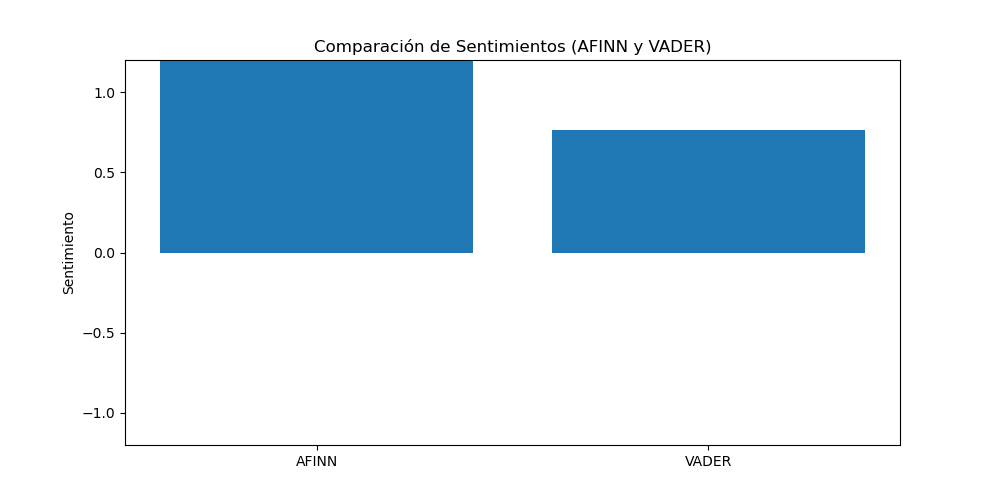
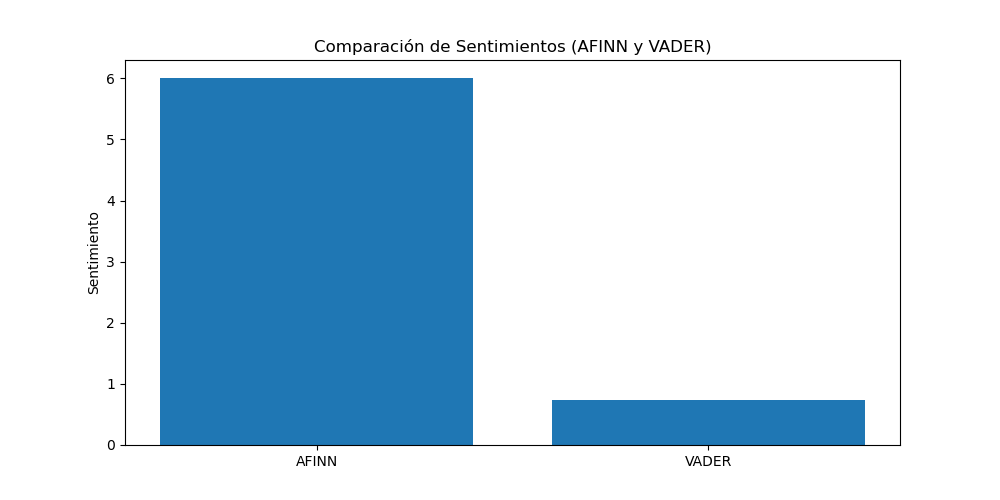
a

diff --git a/Sent Analysis Tlalpan.py b/Sent Analysis Tlalpan.py
@@ -15,10 +15,7 @@ def analyze_text(text):
     Realiza un análisis de sentimiento utilizando AFINN y VADER, y genera una nube de palabras.
 
     AFINN: Es un léxico de palabras con puntuaciones numéricas que reflejan su connotación positiva o negativa.
-    Los puntajes AFINN suelen variar entre -5 (muy negativo) y 5 (muy positivo).
-
-    VADER: Es un analizador de sentimientos específico para el lenguaje de las redes sociales. 
-    Los puntajes VADER van de -1 (muy negativo) a 1 (muy positivo). El puntaje 'compound' que se utiliza aquí representa el sentimiento general del texto.
+    VADER: Es un analizador de sentimientos específico para el lenguaje de las redes sociales, que considera intensificadores, negaciones y otros elementos del lenguaje natural.
 
     Args:
         text: El texto a analizar.
@@ -55,7 +52,6 @@ def analyze_text(text):
     plt.bar(['AFINN', 'VADER'], [sentiment_afinn, sentiment_vader])
     plt.ylabel('Sentimiento')
     plt.title('Comparación de Sentimientos (AFINN y VADER)')
-    plt.ylim(-1.2, 1.2)  # Ajusta el límite del eje y para visualizar mejor los resultados
     plt.savefig("sentimientos.png")
     st.image("sentimientos.png")
 
@@ -64,9 +60,6 @@ def analyze_text(text):
 # Interfaz de usuario
 st.title("Analizador de Sentimiento con AFINN y VADER")
 st.write("AFINN y VADER son herramientas para analizar el sentimiento de un texto. AFINN asigna puntajes a palabras basadas en un léxico, mientras que VADER está diseñado para entender el lenguaje natural de las redes sociales.")
-st.write("**Interpretación de los puntajes:**")
-st.write("- **AFINN:** Varía entre -5 (muy negativo) y 5 (muy positivo).")
-st.write("- **VADER:** Varía entre -1 (muy negativo) y 1 (muy positivo).")
 text_input = st.text_area("Ingrese su texto aquí:")
 
 if st.button("Analizar"):
